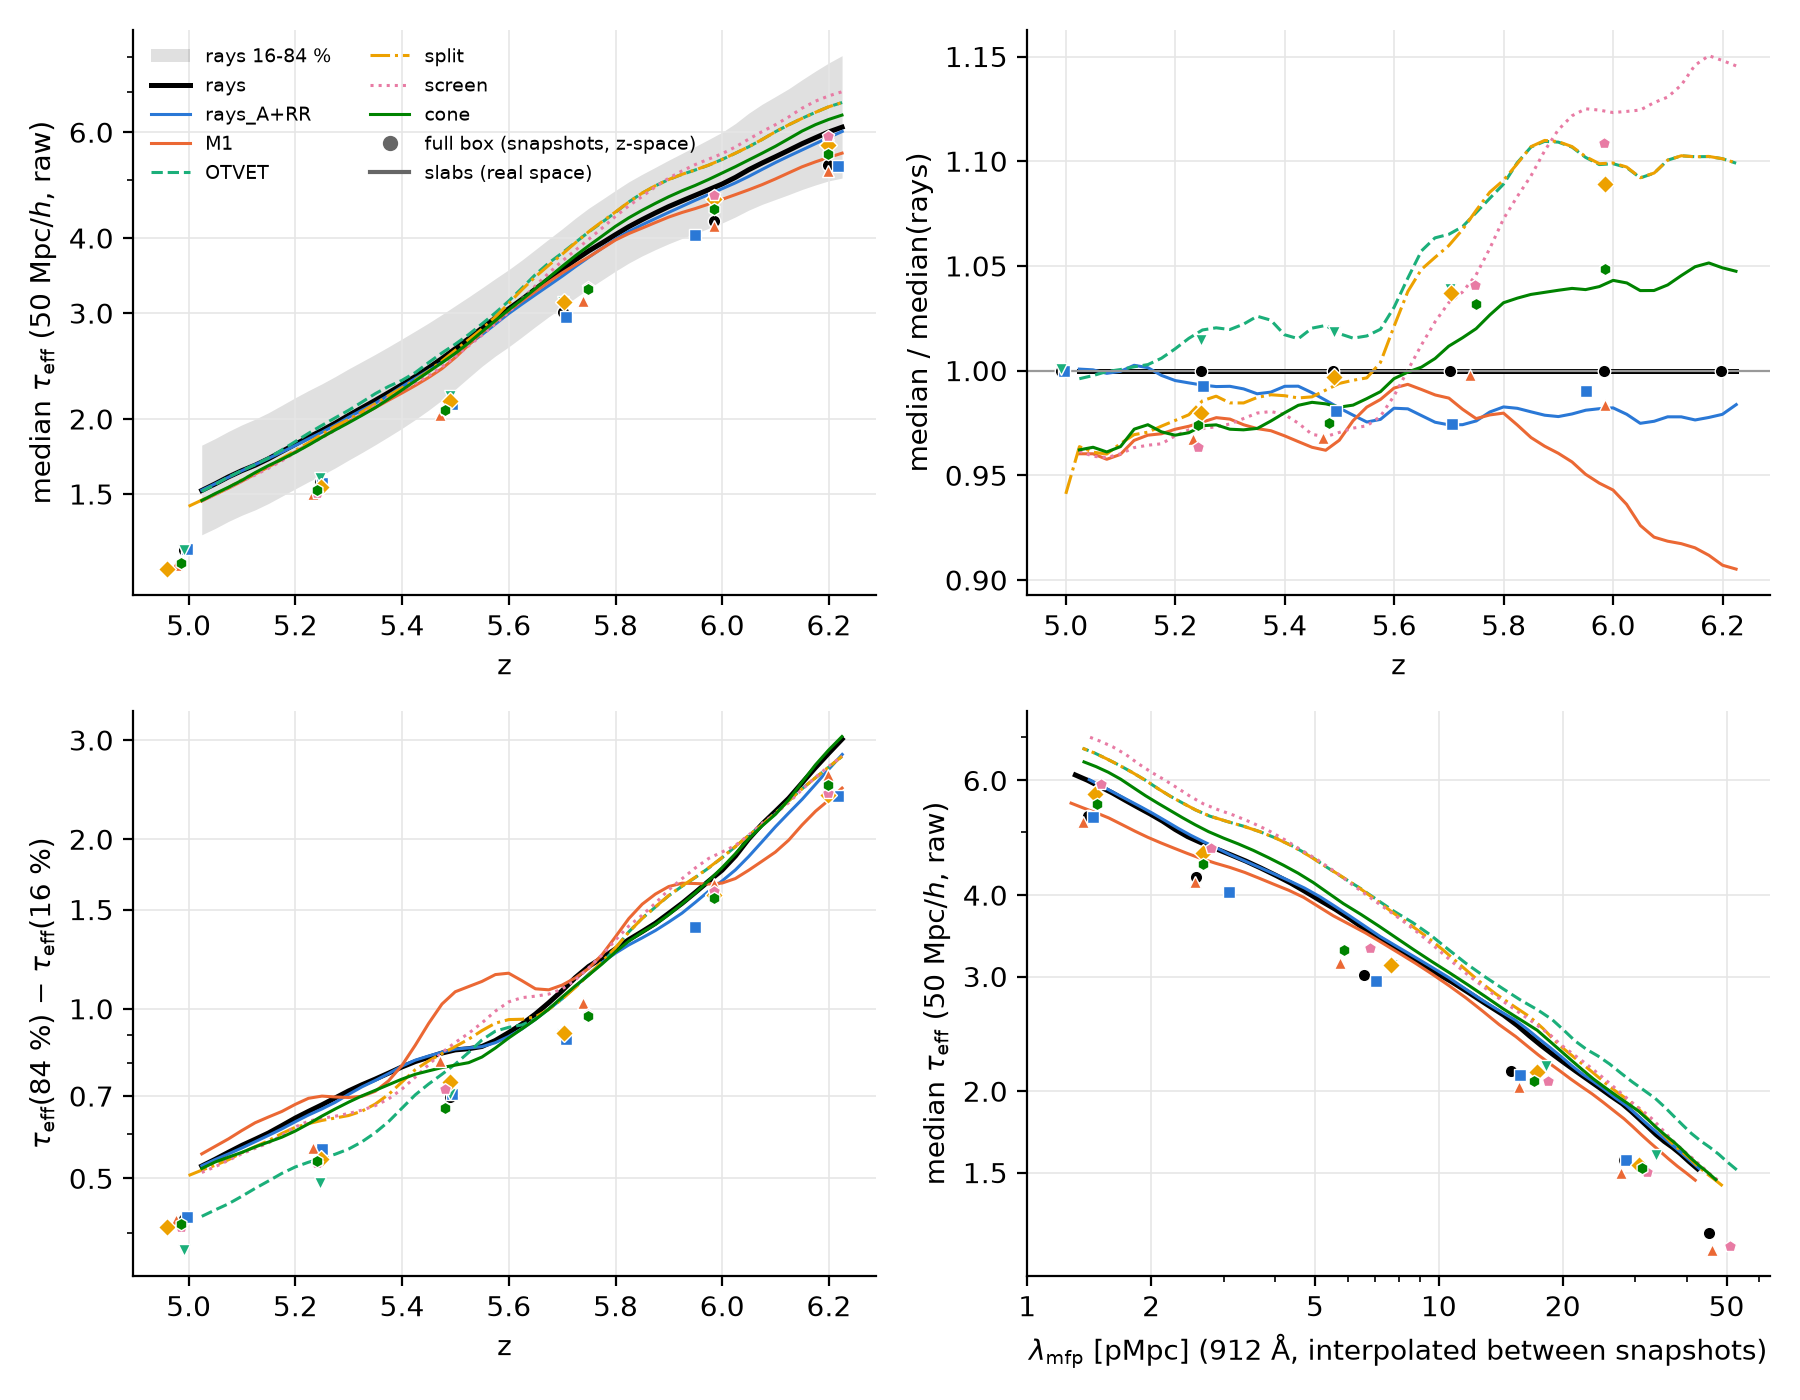
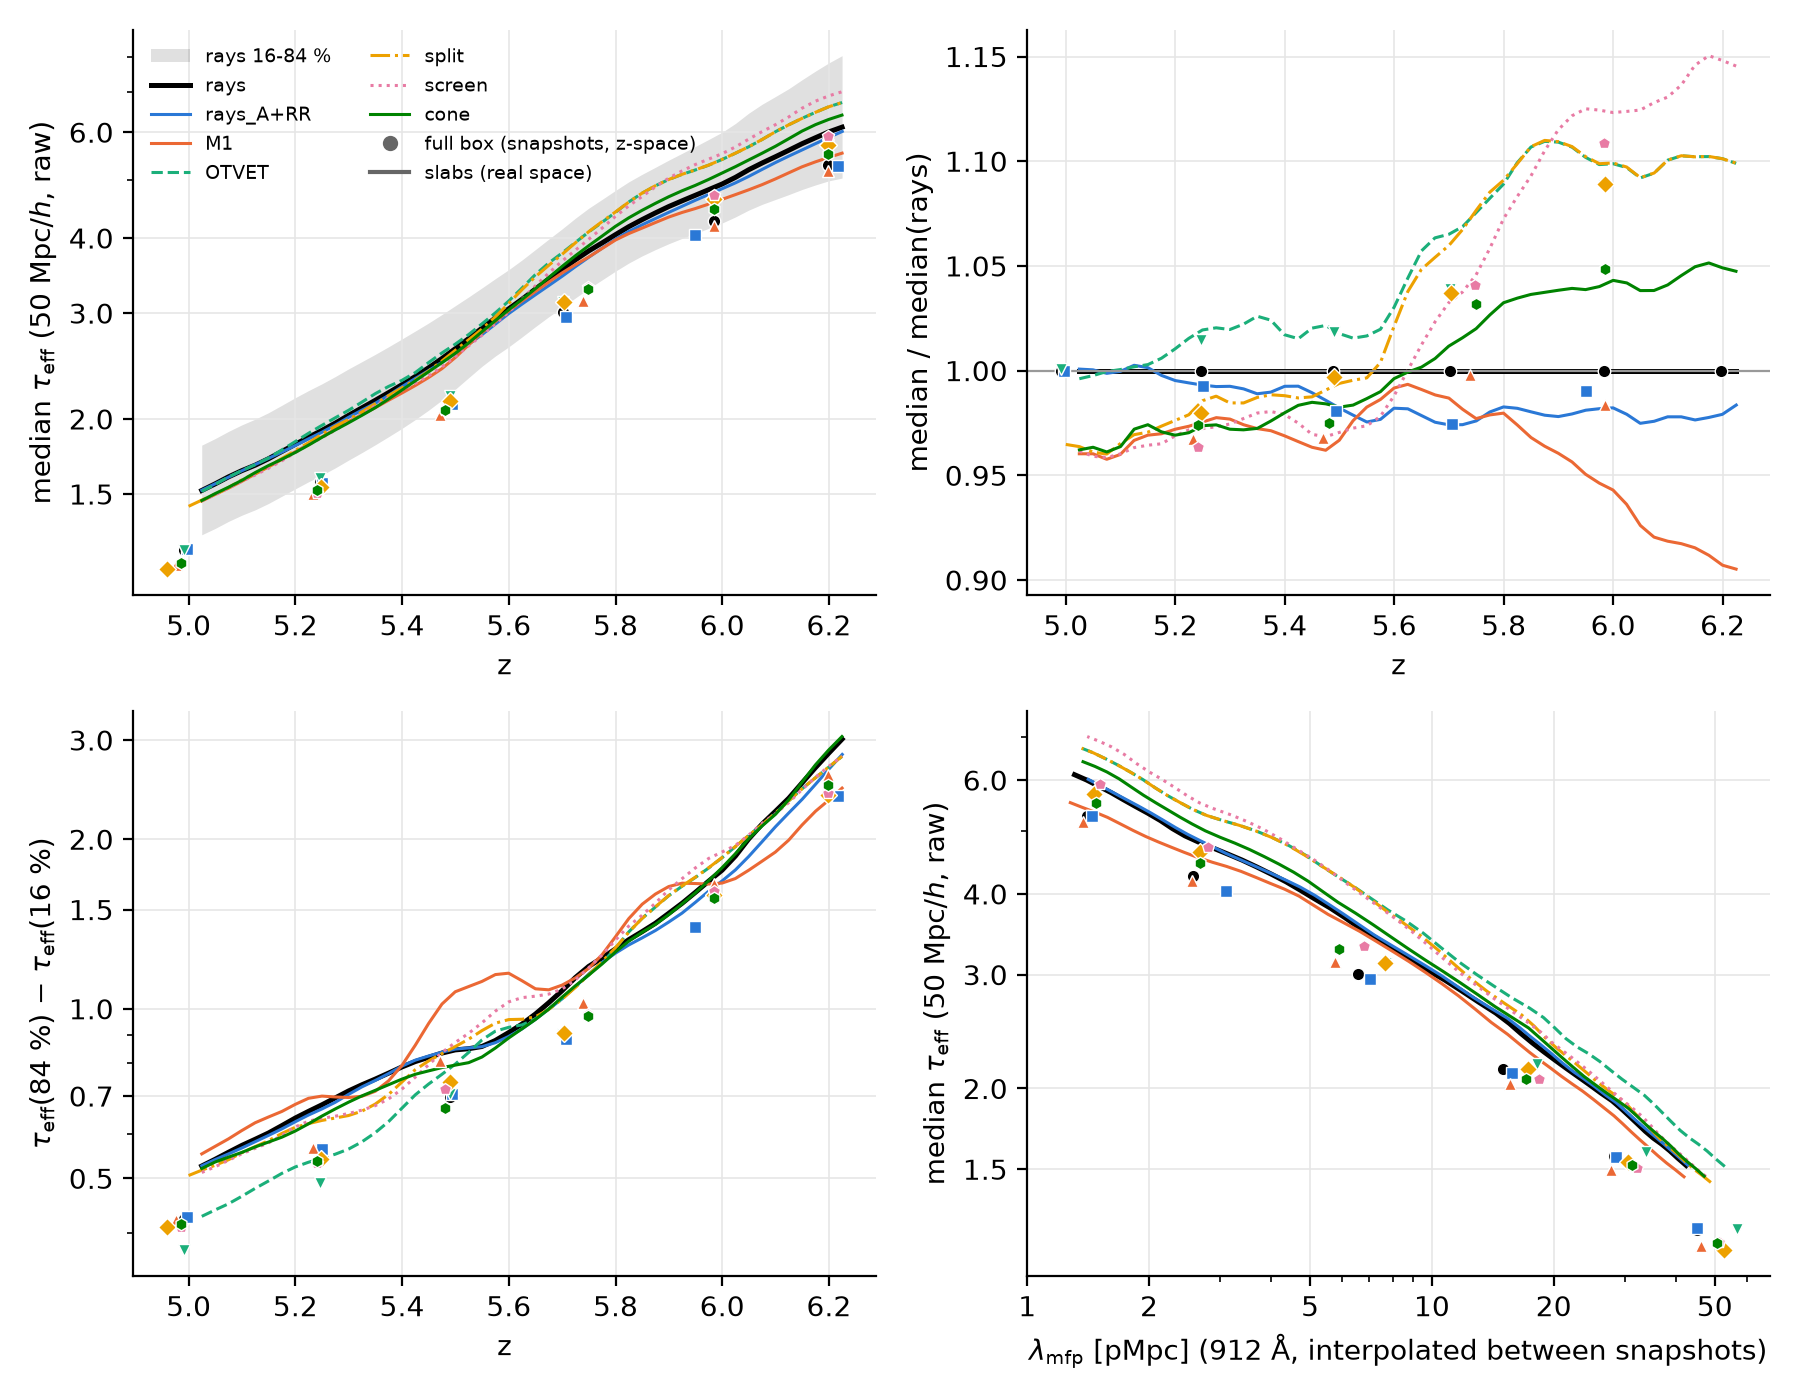
taueff_z.py without --slabs: the full-box snapshots alone, connected (the user's choice); A.6: the snapshot tables (normalised width M1 +24 % at z = 5.47, thin OTVET -12-14 % after overlap, cone within 7 %)
Claude-Session: https://claude.ai/code/session_01VFiZmUVb5p1e8vvbjwbhqk

diff --git a/tools/analysis/taueff_z.py b/tools/analysis/taueff_z.py
@@ -35,6 +35,9 @@ the raw tau_eff against z (right).
 snapshots (3 x 8192 random skewers, redshift space, 50 Mpc/h joined
 segments) as filled markers on every panel, for comparison with the slabs.
 
+Without --slabs (only --full): the snapshots alone, connected by lines; no
+slab curves, no smoothing, lambda_mfp exact at each snapshot.
+
 --norm: the same figures (suffix _A) for tau rescaled per frame by A so that
 <F> of the slab pixels equals Bosman+22's mean transmission at the frame's z
 (data/igm/igm_z5_6.txt, Table 4; taueff_slabs.py; z <= 6.2 only). The
@@ -98,15 +101,28 @@ def smooth121(z, p):
     return z[1:-1], 0.25 * p[:-2] + 0.5 * p[1:-1] + 0.25 * p[2:]
 
 
+def interp_ext(x, xp, fp):
+    """np.interp, extended linearly from the two end points on either side."""
+    o = np.argsort(xp)
+    xp, fp = np.asarray(xp)[o], np.asarray(fp)[o]
+    y = np.interp(x, xp, fp)
+    lo, hi = x < xp[0], x > xp[-1]
+    y[lo] = fp[0] + (x[lo] - xp[0]) * (fp[1] - fp[0]) / (xp[1] - xp[0])
+    y[hi] = fp[-1] + (x[hi] - xp[-1]) * (fp[-1] - fp[-2]) / (xp[-1] - xp[-2])
+    return y
+
+
 def lam_at(z, zs, lam):
     ok = np.isfinite(lam) & (lam > 0)
-    return np.exp(np.interp(z, zs[ok], np.log(lam[ok]), left=np.nan, right=np.nan))
+    out = np.exp(np.interp(z, zs[ok], np.log(lam[ok])))
+    out[(z < zs[ok].min() - 5e-3) | (z > zs[ok].max() + 5e-3)] = np.nan   # 4-digit z of the tables
+    return out
 
 
 def main():
     ap = argparse.ArgumentParser(description=__doc__.split("\n\n")[0])
     ap.add_argument("runs", nargs="+", help="label:igm_stats json (the label names SLABS/<label>_slabs.txt)")
-    ap.add_argument("--slabs", required=True)
+    ap.add_argument("--slabs", default=None, help="the slab curves; omit to plot the snapshots alone (--full)")
     ap.add_argument("--outdir", required=True)
     ap.add_argument("--dpi", type=int, default=200)
     ap.add_argument("--norm", action="store_true", help="tau rescaled to Bosman+22's mean flux")
@@ -120,26 +136,41 @@ def main():
     from rt_suite_figures import COLORS, STYLES
 
     os.makedirs(a.outdir, exist_ok=True)
+    full = read_full(a.full, a.norm)
+    snap_only = a.slabs is None
+    if snap_only and not full:
+        ap.error("without --slabs, --full is required")
     runs = []
     for spec in a.runs:
         lab, _, js = spec.partition(":")
-        zs, ps = read_slabs(os.path.join(a.slabs, f"{lab}_slabs.txt"), a.norm)
+        if snap_only:
+            fb = full[lab]
+            fb = fb[np.all(np.isfinite(fb[:, 1:6]), axis=1)]
+            zs, ps = fb[:, 0], fb[:, 1:6]
+        else:
+            zs, ps = read_slabs(os.path.join(a.slabs, f"{lab}_slabs.txt"), a.norm)
         runs.append((lab, zs, ps, read_igm(js)))
-    full = read_full(a.full, a.norm)
+    sm = (lambda z, p: (z, p)) if snap_only else smooth121
+    if snap_only:
+        sfx = "_snap" + sfx
+        full = {}
     fr0 = full.get(runs[0][0])
 
     fig, ax = plt.subplots(2, 2, figsize=(9.0, 7.0))
     (a0, a1), (a2, a3) = ax
-    z0, p0 = smooth121(*[x[np.all(np.isfinite(runs[0][2][:, 1:4]), axis=1)] for x in runs[0][1:3]])
+    z0, p0 = sm(*[x[np.all(np.isfinite(runs[0][2][:, 1:4]), axis=1)] for x in runs[0][1:3]])
     with open(os.path.join(a.outdir, f"taueff_z{sfx}.txt"), "w") as f:
-        f.write(f"# taueff_z.py: {'tau rescaled to the Bosman+22 mean flux' if a.norm else 'raw'}: tau_eff over 50 Mpc/h segments from the movie slabs (real space)\n"
-                "# smoothed [1,2,1]/4 over frames; columns: label z tau16 tau50 tau84 width(84-16) lambda_mfp[pMpc] (interpolated)\n")
+        f.write(f"# taueff_z.py: {'tau rescaled to the Bosman+22 mean flux' if a.norm else 'raw'}: tau_eff over 50 Mpc/h segments "
+                + ("at the snapshots (full box, 3 x 8192 skewers, redshift space)\n# " if snap_only else
+                   "from the movie slabs (real space)\n# smoothed [1,2,1]/4 over frames; ")
+                + "columns: label z tau16 tau50 tau84 width(84-16) lambda_mfp[pMpc] (interpolated)\n")
         for ir, (lab, zs, ps, (zi, ti, li, fi)) in enumerate(runs):
             c, ls = COLORS[ir % len(COLORS)], STYLES[ir % len(STYLES)]
             lw = 1.8 if ir == 0 else 1.1
             m = np.all(np.isfinite(ps[:, 1:4]), axis=1)
-            zs, ps = smooth121(zs[m], ps[m])
+            zs, ps = sm(zs[m], ps[m])
             m = np.ones(len(zs), bool)
+            mko = dict(marker="os^vDph"[ir % 7], ms=4.5, mec="white", mew=0.5) if snap_only else {}
             z, med, w = zs, ps[:, 2], ps[:, 3] - ps[:, 1]
             lam = lam_at(z, zi, li)
             for row in zip(z, ps[m, 1], med, ps[m, 3], w, lam):
@@ -147,9 +178,9 @@ def main():
             if ir == 0:
                 a0.fill_between(z, ps[m, 1], ps[m, 3], color=c, alpha=0.12, lw=0,
                                 label=f"{lab} 16-84 %")
-            a0.plot(z, med, color=c, ls=ls, lw=lw, label=lab)
+            a0.plot(z, med, color=c, ls=ls, lw=lw, label=lab, **mko)
             k = (zi >= z.min() - 0.02) & (zi <= z.max() + 0.02)
-            if not a.norm and not full:
+            if not a.norm and not full and not snap_only:
                 a0.plot(zi[k], ti[k], color=c, marker="o", ms=3.5, mfc="none", ls="none")
             fb = full.get(lab)
             if fb is not None:
@@ -162,9 +193,11 @@ def main():
                     a1.plot(fb[:, 0], fb[:, 3] / ref, **mk)
                 a2.plot(fb[:, 0], fb[:, 4] - fb[:, 2], **mk)
                 a3.plot(lam_at(fb[:, 0], zi, li), fb[:, 3], **mk)
-            a1.plot(z, med / np.interp(z, z0, p0[:, 2]), color=c, ls=ls, lw=lw)
-            a2.plot(z, w, color=c, ls=ls, lw=lw)
-            a3.plot(lam, med, color=c, ls=ls, lw=lw)
+            ref = np.exp(interp_ext(z, z0, np.log(p0[:, 2])))   # log-linear past the ends, dz <= 0.03
+            ref[(z < z0.min() - 0.03) | (z > z0.max() + 0.03)] = np.nan
+            a1.plot(z, med / ref, color=c, ls=ls, lw=lw, **mko)
+            a2.plot(z, w, color=c, ls=ls, lw=lw, **mko)
+            a3.plot(lam, med, color=c, ls=ls, lw=lw, **mko)
         f.write("# -ln<F> of all pixels at the snapshots (redshift space) and lambda_mfp:\n"
                 "# label z tau_eff lambda_mfp[pMpc] lambda_is_fit\n")
         for lab, _, _, (zi, ti, li, fi) in runs:
@@ -180,7 +213,7 @@ def main():
                           np.log(ob["v"][k]) - np.log(np.maximum(ob["v"][k] - ob["em"][k], 1e-4))],
                     color="0.4", marker="s", ms=3, mfc="none", ls="none", lw=0.8,
                     label=r"$-\ln\langle F\rangle$ Bosman+22")
-    elif not full:
+    elif not full and not snap_only:
         a0.plot([], [], color="0.4", marker="o", mfc="none", ls="none", label=r"$-\ln\langle F\rangle$ (snapshots)")
     if full:
         a0.plot([], [], color="0.4", marker="o", ms=4.5, ls="none",
@@ -197,7 +230,7 @@ def main():
         x.set_xlabel("z")
     a3.set_xscale("log")
     a3.set_yscale("log")
-    a3.set_xlabel(r"$\lambda_{\rm mfp}$ [pMpc] (912 Å, interpolated between snapshots)")
+    a3.set_xlabel(r"$\lambda_{\rm mfp}$ [pMpc] (912 Å" + (")" if snap_only else ", interpolated between snapshots)"))
     a3.set_ylabel(r"median $\tau_{\rm eff}$ (50 Mpc/$h$, " + kind + ")")
     from matplotlib.ticker import ScalarFormatter, NullFormatter
     for x in (a0, a2, a3):
@@ -216,10 +249,10 @@ def main():
     fig.tight_layout()
     fig.savefig(os.path.join(a.outdir, f"taueff_z{sfx}.png"), dpi=a.dpi)
     plt.close(fig)
-    mfp_width_figure(runs, a.outdir, a.dpi, sfx, kind, full)
+    mfp_width_figure(runs, a.outdir, a.dpi, sfx, kind, full, snap_only)
 
 
-def mfp_width_figure(runs, outdir, dpi, sfx="", kind="raw", full=None):
+def mfp_width_figure(runs, outdir, dpi, sfx="", kind="raw", full=None, snap_only=False):
     """Left: lambda_mfp against z at the snapshots; right: the raw 84-16 % width."""
     import matplotlib.pyplot as plt
     from matplotlib.ticker import ScalarFormatter, NullFormatter
@@ -235,8 +268,9 @@ def mfp_width_figure(runs, outdir, dpi, sfx="", kind="raw", full=None):
         b0.plot(zi[k & ~fi], li[k & ~fi], color=c, marker="o", ms=3.5, ls="none")
         b0.plot(zi[k & fi], li[k & fi], color=c, marker="o", ms=3.5, mfc="none", ls="none")
         m = np.all(np.isfinite(ps[:, 1:4]), axis=1)
-        z, p = smooth121(zs[m], ps[m])
-        b1.plot(z, p[:, 3] - p[:, 1], color=c, ls=ls, lw=lw)
+        z, p = (zs[m], ps[m]) if snap_only else smooth121(zs[m], ps[m])
+        mko = dict(marker="os^vDph"[ir % 7], ms=4.5, mec="white", mew=0.5) if snap_only else {}
+        b1.plot(z, p[:, 3] - p[:, 1], color=c, ls=ls, lw=lw, **mko)
         fb = (full or {}).get(lab)
         if fb is not None:
             fb = fb[np.all(np.isfinite(fb[:, 1:]), axis=1)]

diff --git a/docs/taueff_21cmfast.md b/docs/taueff_21cmfast.md
@@ -218,6 +218,56 @@ skewers at the snapshots). Right: the ratio to the rays.* Numbers:
 
 ### A.6 Raw τ_eff against z and against λ_mfp
 
+**The figures to use: the full-box snapshots only** (the user,
+2026-11-06: connect the snapshot points and leave out the finely sampled
+slabs). `taueff_z.py --full taueff.txt` without `--slabs` plots the
+3 × 8192 random skewers of Figure 7 (redshift space, 50 Mpc/h segments)
+at the 6 snapshots between z = 6.2 and 5.0, connected by lines, with
+λ_mfp exact at each snapshot. Each run is compared with the rays
+interpolated in ln τ to its own snapshot z (extrapolated log-linearly
+from the two end points for Δz ≤ 0.03).
+
+![tau_eff at the snapshots, normalised](figures/taueff_21cmfast_z_snap_A.png)
+
+![lambda_mfp and width at the snapshots, normalised](figures/taueff_21cmfast_mfp_width_snap_A.png)
+
+![tau_eff at the snapshots, raw](figures/taueff_21cmfast_z_snap.png)
+
+Raw and normalised versions of both figures are in `figures/` (`_snap`,
+`_snap_A`); the numbers are in `figures/taueff_21cmfast_z_snap{,_A}.txt`.
+
+| at the run's snapshot | z ≈ 4.98 | 5.24 | 5.48 | 5.72 | 5.98 | 6.20 |
+|---|---|---|---|---|---|---|
+| raw median / rays: A + RR | 1.00 | 0.99 | 0.98 | 0.97 | 0.99 | 0.98 |
+| M1 | 0.96 | 0.97 | 0.97 | 1.00 | 0.98 | 0.98 |
+| OTVET (thin) | 1.00 | 1.02 | 1.02 | 1.04 | 1.09 | 1.08 |
+| split | 0.96 | 0.98 | 1.00 | 1.04 | 1.09 | 1.08 |
+| screen | 0.96 | 0.96 | 0.98 | 1.04 | 1.11 | 1.12 |
+| cone | 0.96 | 0.98 | 0.98 | 1.03 | 1.05 | 1.04 |
+| normalised width / rays: A + RR | 1.00 | 1.00 | 1.03 | 0.99 | 0.97 | – |
+| M1 | 1.05 | 1.04 | **1.24** | 1.05 | 1.11 | 1.14 |
+| OTVET (thin) | **0.88** | **0.86** | 1.02 | 0.97 | 0.91 | 0.89 |
+| split | 1.05 | 0.97 | 1.09 | 0.97 | 0.91 | 0.89 |
+| screen | 1.01 | 0.97 | 1.09 | 0.95 | 0.91 | 0.85 |
+| cone | 1.03 | 0.97 | 0.98 | 0.93 | 0.95 | 0.96 |
+
+* With the mean flux normalised, the medians agree within 2 %.
+* The widths show M1 broad at every snapshot: +24 % at z = 5.47, the
+  snapshot right after its overlap; +11–14 % before z ≈ 6.
+* Thin OTVET is 12–14 % narrow after overlap. The whole OTVET family is
+  9–15 % narrow at z ≥ 6.
+* The cone is within 7 % of the rays and A + RR within 3 %.
+* M1's end-of-reionization excess, a 0.45-wide bump in the slab curves
+  below, falls between the snapshots at 5.74 and 5.47. Only the z = 5.47
+  point catches it.
+* At fixed λ_mfp (raw), thin OTVET is 10–12 % more opaque than the rays
+  at every snapshot. Split and screen are 3–15 % more opaque, rising
+  toward high z; the cone is +3–6 % and M1 −2 to −5 %.
+
+The slab analysis below is kept for the record. Its raw level is offset
+from the full box (real against redshift space), and its M1 dip at z ≥ 6
+is slab sampling.
+
 The user's choice (2026-11-06): no observed distributions for now, and the
 methods should be compared **at the same mean free path** rather than at
 the same z. `taueff_z.py` draws the raw (unrescaled) slab τ_eff of A.5 with

diff --git a/docs/STATUS.md b/docs/STATUS.md
@@ -52,6 +52,11 @@
   within 6 %). M1's bumps: after its earlier overlap Γ decorrelates from
   density (r = −0.10 at z = 5.47 against +0.6 for the others), so Γ
   fluctuations add to the τ scatter instead of cancelling it.
+* **The τ_eff figures to use** (user, 2026-11-06): the full-box
+  snapshots only, connected (`taueff_z.py --full` without `--slabs`;
+  `figures/taueff_21cmfast_*_snap*.png`). Normalised: medians within 2 %;
+  width M1 +24 % at z = 5.47 and +11–14 % at z ≥ 6, thin OTVET −12–14 %
+  after overlap, cone within 7 %.
 * **Deferred (user, 2026-11-06):** the observed τ_eff distributions
   (Bosman+22) and the reference check are on hold; the comparison
   between methods is to be made at the same mean free path. Optional:
